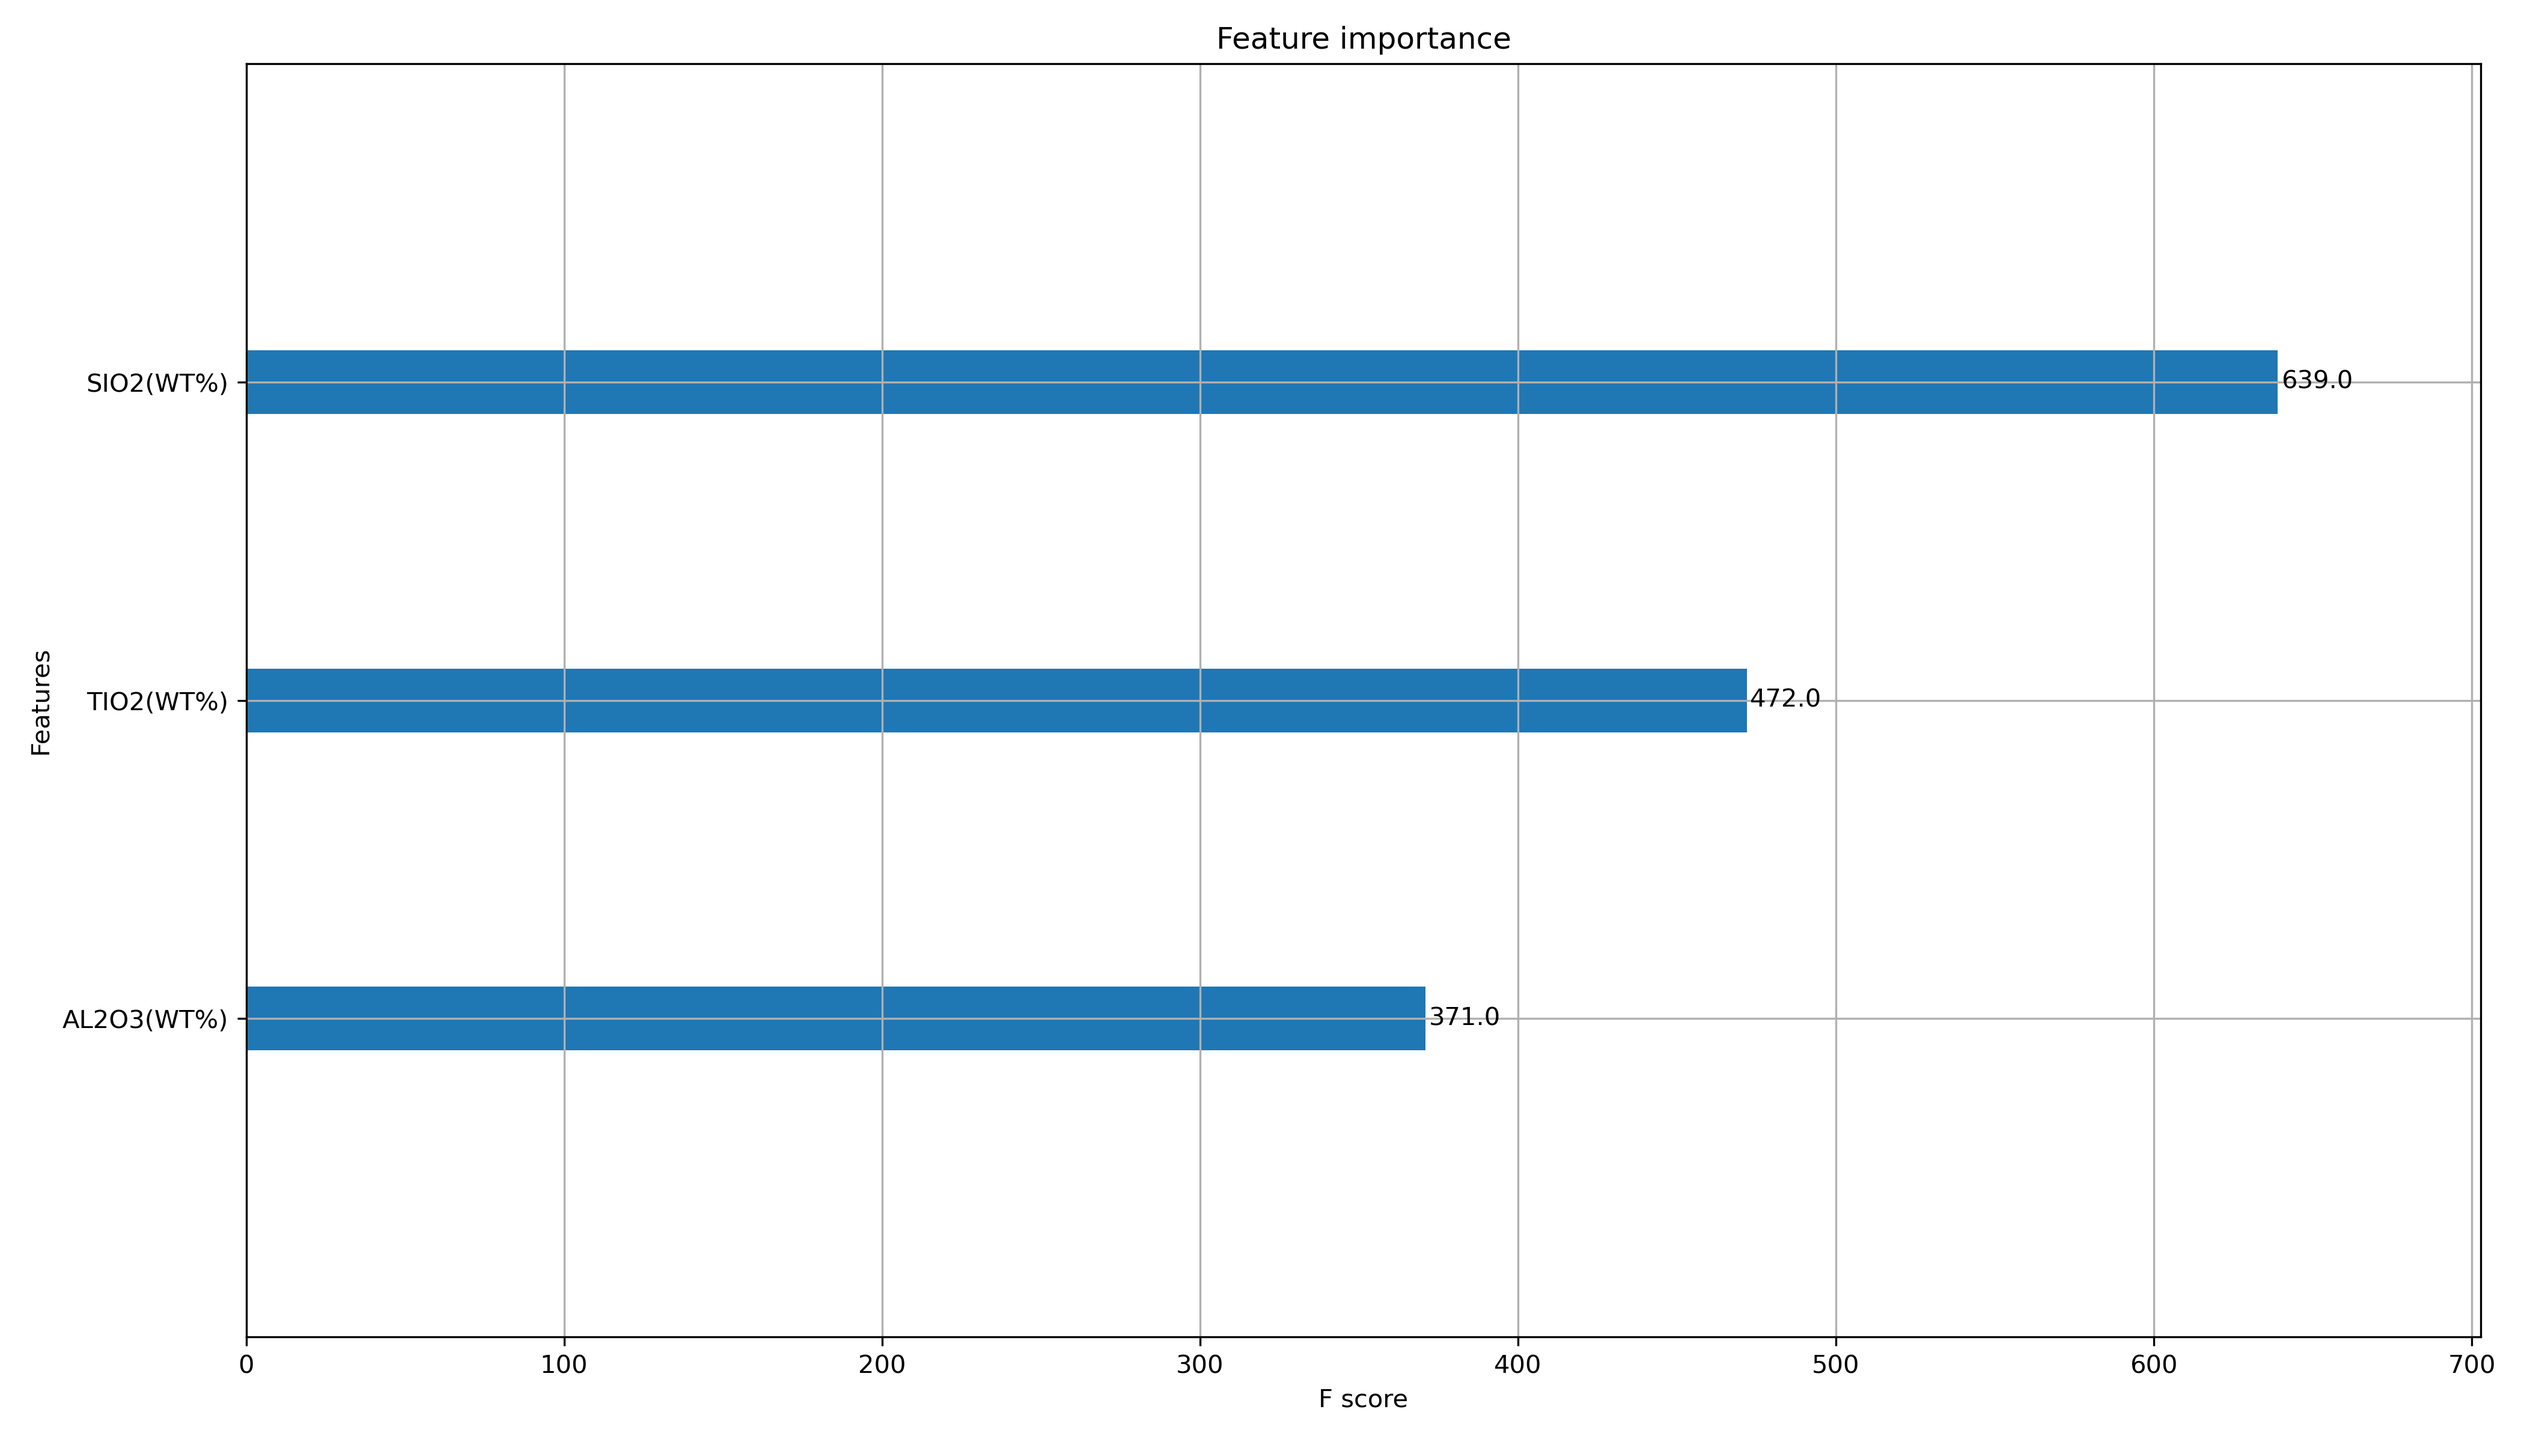
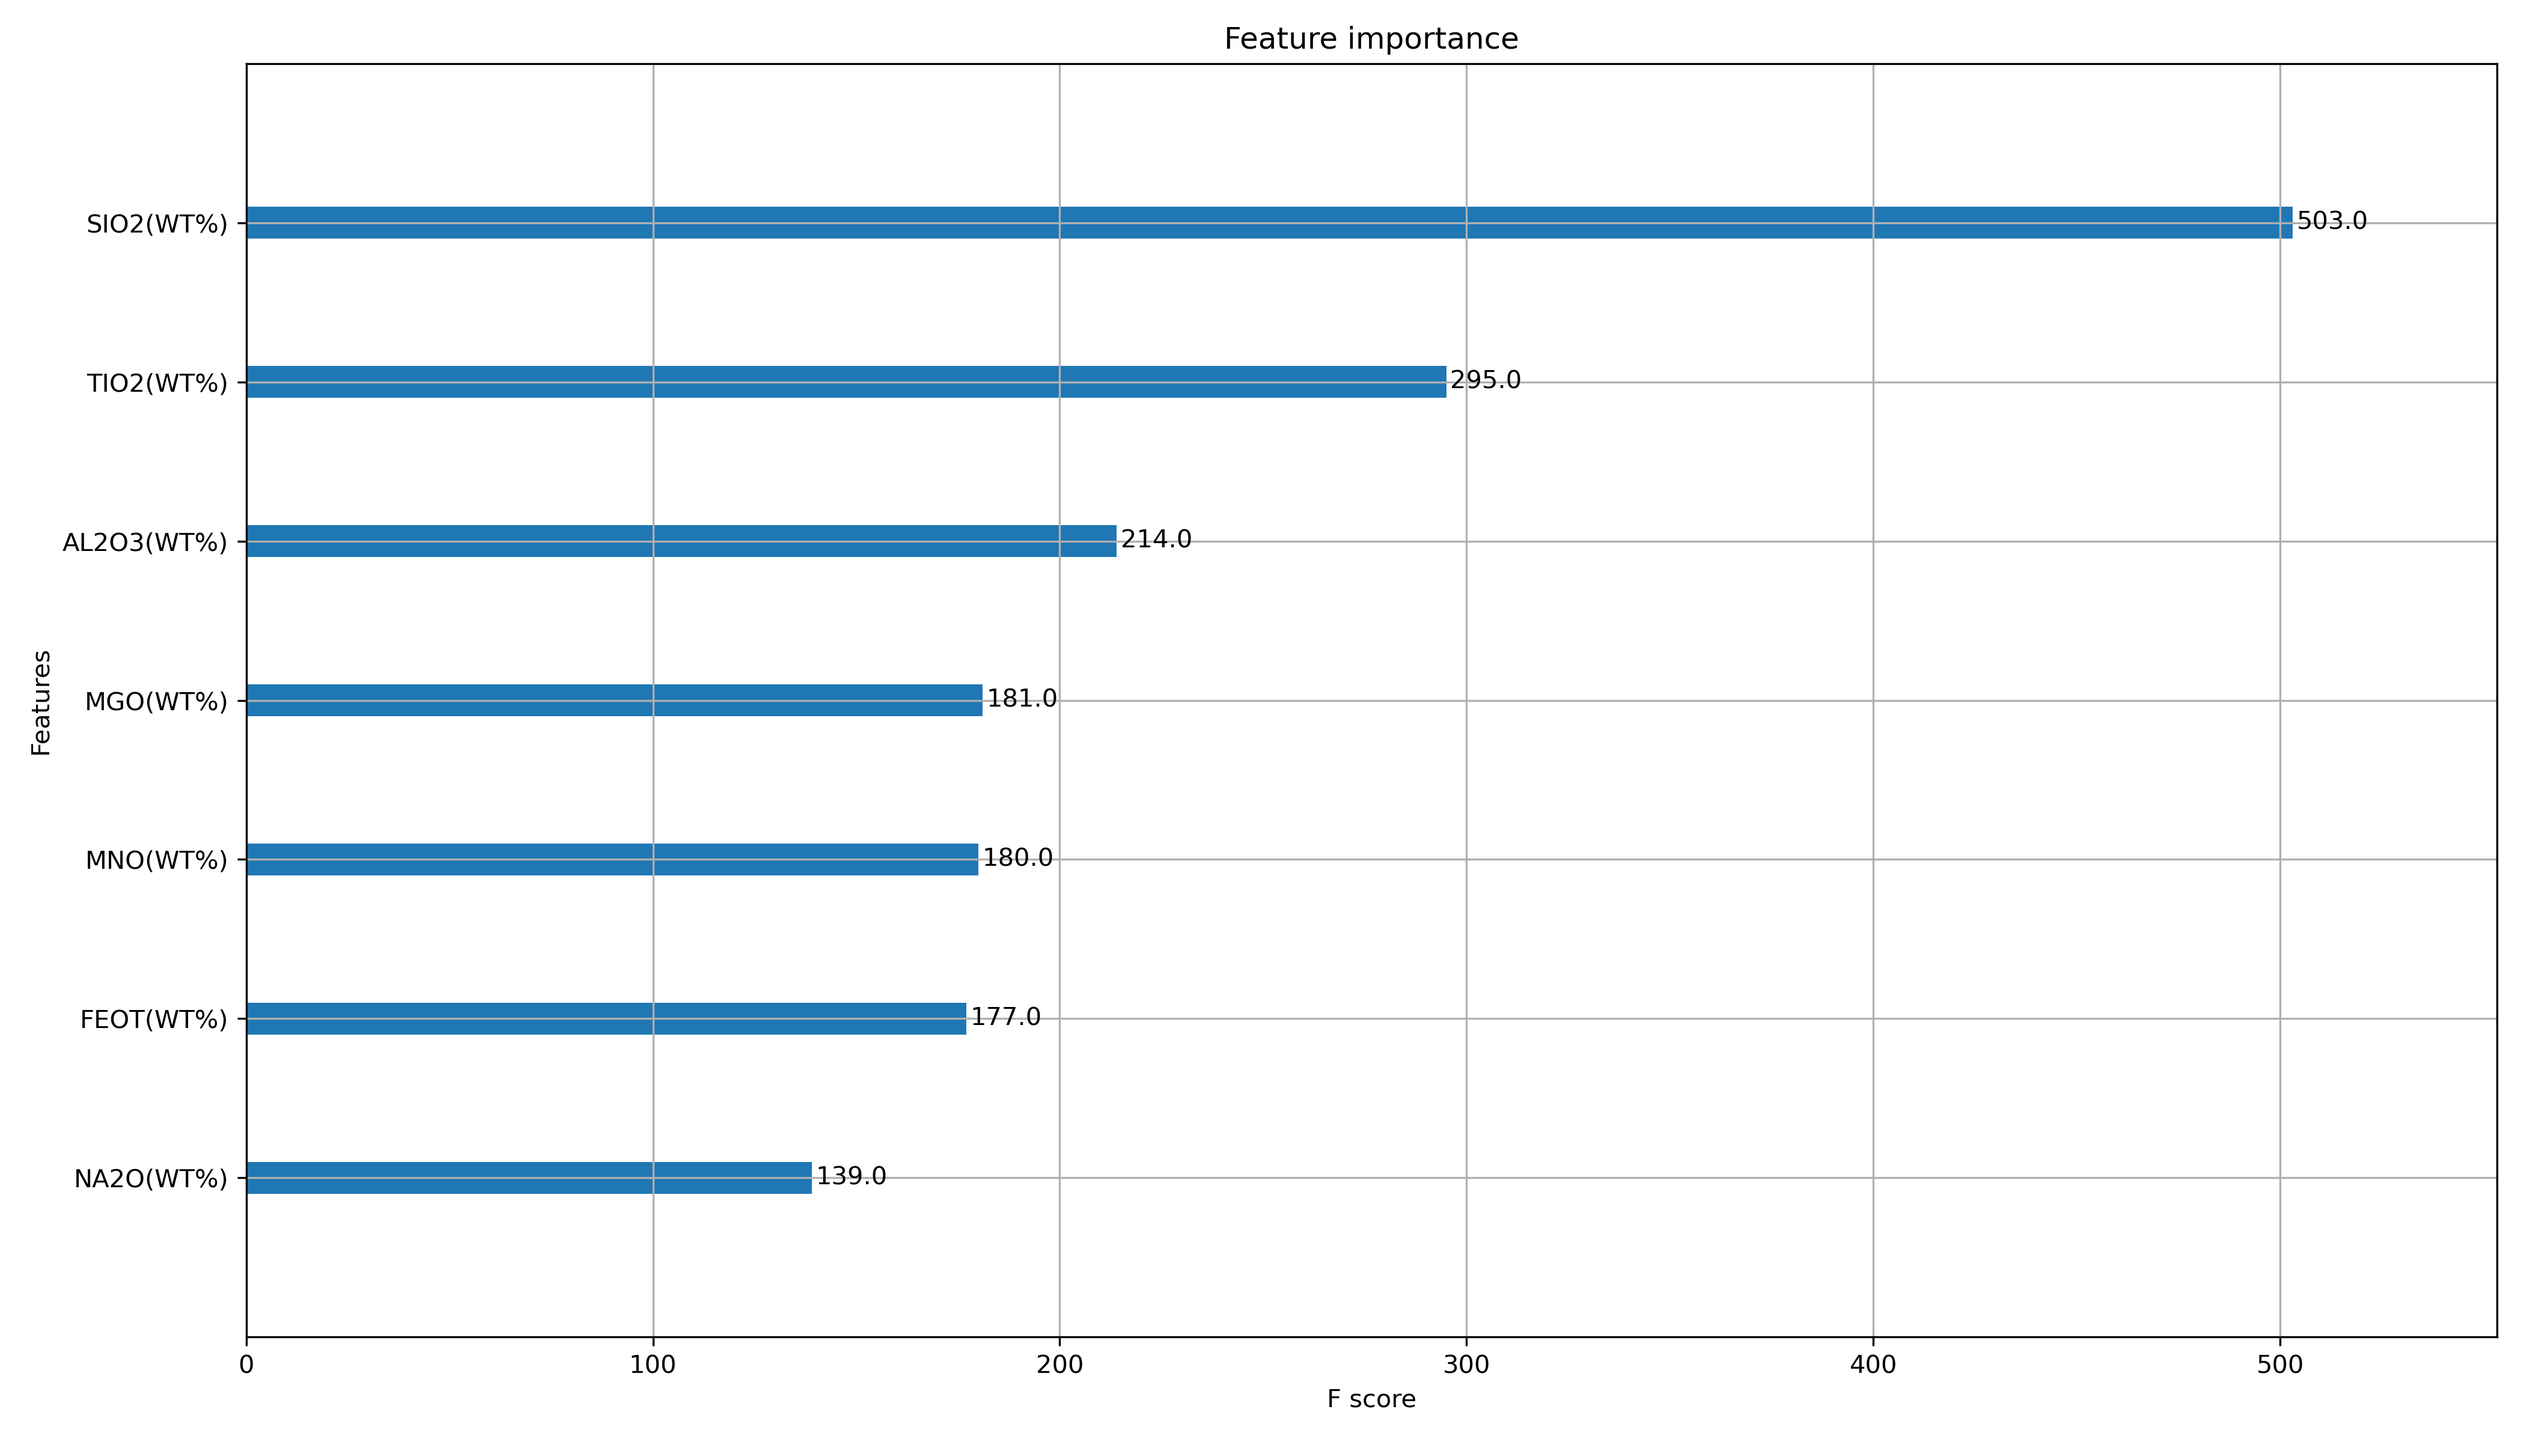
add "imputer" function to implement imputing for missing values; modify "select_columns" function

diff --git a/algorithm/GeoChemistryPy/client/main.py b/algorithm/GeoChemistryPy/client/main.py
@@ -14,40 +14,65 @@ def main():
     #file_name = input("Upload the data set.(Enter the name of data set) ")
     file_name = 'Data_Example_for_Geochemistry_Py.xlsx'
     data = read_data(file_name)
-    show_data_columns(data)
-    columns_range = input('Select the data range you want to process.\n'
-                          'Input format "(xx: xx); xx; (xx, xx)", such as "(1: 3); 7; (10: 13)"\n'
-                          'It means you want to deal with the columns 1, 2, 3, 7, 10, 11, 12, 13\n'
-                          '@input: ')
-    columns_selected = select_columns(columns_range)
-    # reindex by subtract 1 due to python list traits
-    columns_selected = [columns_selected[i]-1 for i in range(len(columns_selected))]
-    data_selected = data.iloc[:, columns_selected]
-    for i, j in zip(columns_selected, data_selected.columns):
-        print(i+1, "-", j)
-    #print(re.sub(r'\[|\]', '', str(list(data_selected.columns))))
 
+    # create X data set
+    show_data_columns(data.columns)
+    X_columns_range = input('Select the data range as X you want to process.\n'
+                            'Input format "[**, **]; **; [**, **]", such as "[1, 3]; 7; [10, 13]",'
+                            'ignore double quotation marks.\n'
+                            'It means you want to deal with the columns 1, 2, 3, 7, 10, 11, 12, 13.\n'
+                            '@input: ')
+    X_columns_selected = select_columns(X_columns_range)
+    X = data.iloc[:, X_columns_selected]
+    show_data_columns(X.columns, X_columns_selected)
 
+    # create Y data set
+    y_columns_range = input('Select the data range as Y you want to process.\n'
+                            'Input format "xx", such as "7",'
+                            'ignore double quotation marks.\n'
+                            'It means you want to deal with the columns 7.\n'
+                            '@input: ')
+    y_columns_selected = select_columns(y_columns_range)
+    y = data.iloc[:, y_columns_selected]
+    show_data_columns(y.columns, y_columns_selected)
+
+    print("\n")
+
+    # imputing
+    print("Strategy for Missing Values:")
+    num2option(IMPUTING_STRATEGY)
+    strategy_num = int(input("Which strategy do you want to apply?(Enter the Corresponding Number): "))
+    X_imputed_np = imputer(X, IMPUTING_STRATEGY[int(strategy_num) - 1])
+    X_imputed = np2pd(X_imputed_np, X.columns)
+    print(f'X data set: \n {X_imputed}')
+    y_imputed_np = imputer(y, IMPUTING_STRATEGY[int(strategy_num) - 1])
+    y_imputed = np2pd(y_imputed_np, y.columns)
+    print(f'Y data set: \n {y_imputed}')
+
+    # feature engineering
+
+    print("\n")
 
     # model option for users
     print("Model Selection:")
-    for i in range(len(MODELS)):
-        print(str(i+1) + " - " + MODELS[i])
-    all_models_num = len(MODELS) + 1
+    num2option(REGRESSION_MODELS)
+    # for i in range(len(REGRESSION_MODELS)):
+    #     print(str(i+1) + " - " + REGRESSION_MODELS[i])
+    all_models_num = len(REGRESSION_MODELS) + 1
     print(str(all_models_num) + " - All models above trained")
     model_num = int(input("Which model do you want to apply?(Enter the Corresponding Number): "))
 
     # model trained selection
     if model_num != all_models_num:
         # gain the designated model'result
-        model = MODELS[int(model_num) - 1]
+        model = REGRESSION_MODELS[int(model_num) - 1]
         run = ModelSelection(model)
-        run.activate(data)
+        run.activate(X_imputed, y_imputed)
     else:
         # gain all models'result
-        for i in range(len(MODELS)):
-            run = ModelSelection(MODELS[i])
-            run.activate(data)
+        for i in range(len(REGRESSION_MODELS)):
+            run = ModelSelection(REGRESSION_MODELS[i])
+            run.activate(X_imputed, y_imputed)
 
 
 if __name__ == "__main__":

diff --git a/algorithm/GeoChemistryPy/data/data_readiness.py b/algorithm/GeoChemistryPy/data/data_readiness.py
@@ -1,9 +1,11 @@
 import sys
 sys.path.append("..")
 from global_variable import *
+import numpy as np
 import pandas as pd
 import re
 from typing import Optional, List
+from sklearn.impute import SimpleImputer
 
 
 def read_data(file_name):
@@ -12,42 +14,49 @@ def read_data(file_name):
     return data
 
 
-def show_data_columns(data):
-    feature_name = list(data.columns)
-    for i, j in enumerate(feature_name):
-        print(i+1, "-", j)
+def show_data_columns(columns_name, columns_index=None):
+    if columns_index == None:
+        for i, j in enumerate(columns_name):
+            print(i+1, "-", j)
+    else:
+        for i, j in zip(columns_index, columns_name):
+            print(i+1, "-", j)
 
 
 def select_columns(columns_range: Optional[str] = None) -> List[int]:
 
     columns_selected = []
-
-    # recognize "(xx:xx)" pattern
-    pattern1 = r'\(\d{1,2}.*?\d{1,2}\)'
-    continues_column = re.findall(pattern1, columns_range)
-    # find the integers in a specific range
-    for i in range(len(continues_column)):
-        min_max = re.findall(r"\d{1,2}", continues_column[i])
-        index1 = int(min_max[0])
-        index2 = int(min_max[1])
-        temp = [index2 - j for j in range(index2-index1+1)]
-        columns_selected = columns_selected + temp
-
-    # recognize "xx; | ;xx" pattern
-    pattern2 = r'\s*\d{1,2}\s*;|;\s*\d{1,2}\s*'
-    discrete_column = re.findall(pattern2, columns_range)
-    # extract the integers
-    for i in range(len(discrete_column)):
-        index = re.sub(r';|\s', '', discrete_column[i])
-        columns_selected.append(int(index))
+    temp = columns_range.split(";")
+    for i in range(len(temp)):
+        if isinstance(eval(temp[i]), int):
+            columns_selected.append(eval(temp[i]))
+        else:
+            min_max = eval(temp[i])
+            index1 = min_max[0]
+            index2 = min_max[1]
+            j = [index2 - j for j in range(index2 - index1 + 1)]
+            columns_selected = columns_selected + j
 
     # delete the repetitive index in the list
     columns_selected = list(set(columns_selected))
     # sort the index list
     columns_selected.sort()
+    # reindex by subtracting 1 due to python list traits
+    columns_selected = [columns_selected[i] - 1 for i in range(len(columns_selected))]
     return columns_selected
 
 
+def num2option(items: List = None) -> None:
+    for i, j in enumerate(items):
+        print(str(i+1) + " - " + j)
 
-def imputing():
-    pass
+
+def np2pd(array, columns_name):
+    return pd.DataFrame(array, columns=columns_name)
+
+
+def imputer(data, method):
+    imp = SimpleImputer(missing_values=np.nan, strategy=method)
+    print(f"Successfully fill the missing values with the {method} value "
+          f"of each feature column respectively")
+    return imp.fit_transform(data)

diff --git a/algorithm/GeoChemistryPy/model/regression.py b/algorithm/GeoChemistryPy/model/regression.py
@@ -29,8 +29,8 @@ class RegressionWorkflowBase(object):
         print("*-*" * 2, cls.name, "is running ...", "*-*" * 2)
         print("Expected Functionality:")
         function = cls.common_function + cls.special_function
-        for i in range(len(cls.common_function)):
-            print("+ ", cls.common_function[i])
+        for i in range(len(function)):
+            print("+ ", function[i])
 
     def __init__(self, random_state: int= 42) -> None:
         self.random_state = random_state
@@ -107,7 +107,6 @@ class RegressionWorkflowBase(object):
 class PolynomialRegression(RegressionWorkflowBase, BaseEstimator):
 
     name = "Polynomial Regression"
-    #function = ["Model Score", "Polynomial Regression Formula"]
     special_function = ["Polynomial Regression Formula"]
 
     def __init__(self,
@@ -154,7 +153,7 @@ class PolynomialRegression(RegressionWorkflowBase, BaseEstimator):
         self.__coefficient = self.model.coef_
         self.__intercept = self.model.intercept_
         term = []
-        coef = list(np.around(self.__coefficient, decimals=3))
+        coef = np.around(self.__coefficient, decimals=3).tolist()[0]
         for i in range(len(coef)):
             # the first value stay the same
             if i == 0:
@@ -170,11 +169,11 @@ class PolynomialRegression(RegressionWorkflowBase, BaseEstimator):
                 elif coef[i] < 0:
                     temp = str(coef[i]) + self.__features_name[i]
                     term.append(temp)
-        if self.__intercept >= 0:
+        if self.__intercept[0] >= 0:
             # formula of polynomial regression
-            formula = ''.join(term) + '+' + str(self.__intercept)
+            formula = ''.join(term) + '+' + str(self.__intercept[0])
         else:
-            formula = ''.join(term) + str(self.__intercept)
+            formula = ''.join(term) + str(self.__intercept[0])
         print('y =', formula)
 
     def special_components(self):
@@ -312,7 +311,6 @@ class XgboostRegression(RegressionWorkflowBase, BaseEstimator):
         plt.rcParams["figure.figsize"] = (14, 8)
         xgboost.plot_importance(self.model)
         self._save_fig("xgb_feature_importance_fscore")
-
 
     def special_components(self):
         self._feature_importance()

diff --git a/algorithm/GeoChemistryPy/process/regress.py b/algorithm/GeoChemistryPy/process/regress.py
@@ -10,10 +10,7 @@ class ModelSelection(object):
         self.model = model
         self.reg_workflow = RegressionWorkflowBase()
 
-    def activate(self, data, degree=2):
-        X = data.loc[:, 'SIO2(WT%)':'AL2O3(WT%)']
-        y = data.loc[:, 'FEOT(WT%)']
-
+    def activate(self, X, y, degree=2):
         X_train, X_test, y_train, y_test = self.reg_workflow.data_split(X, y)
 
         # model option

diff --git a/algorithm/GeoChemistryPy/global_variable.py b/algorithm/GeoChemistryPy/global_variable.py
@@ -13,6 +13,6 @@ IMAGE_PATH = os.path.join(WORKING_PATH, "images")
 os.makedirs(DATASET_PATH, exist_ok=True)
 os.makedirs(IMAGE_PATH, exist_ok=True)
 
-MODELS = ['Polynomial Regression', 'Xgboost']
+REGRESSION_MODELS = ['Polynomial Regression', 'Xgboost']
 
-
+IMPUTING_STRATEGY = ['mean', 'median', 'most_frequent']
